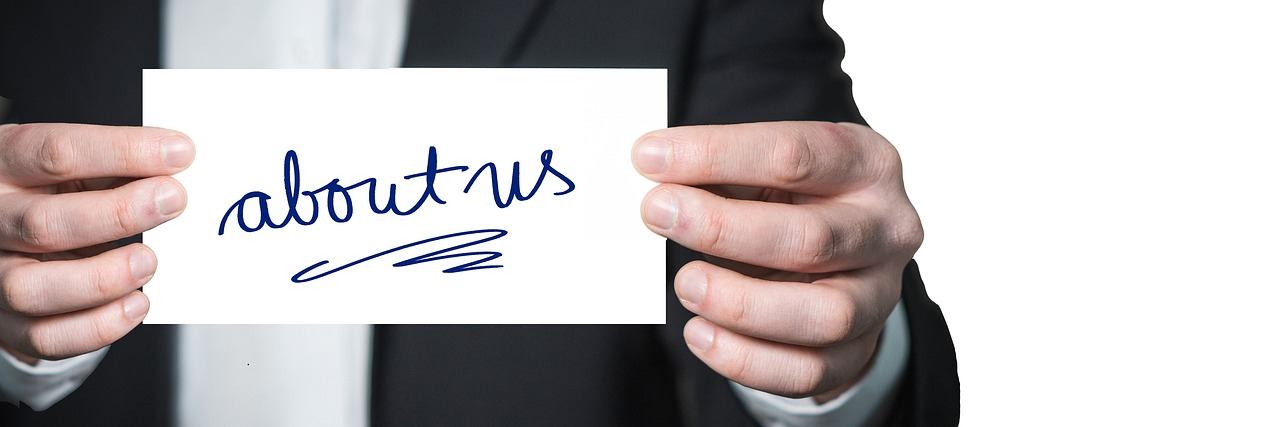
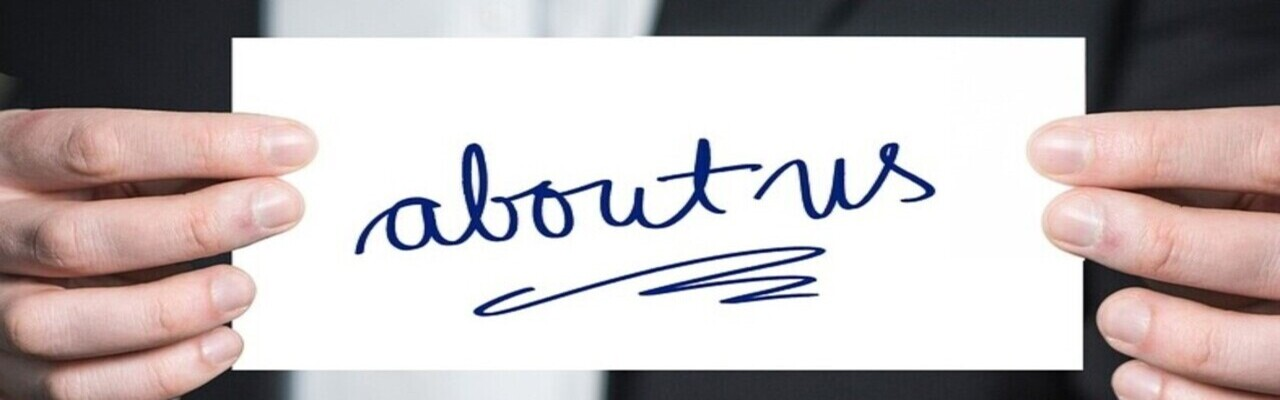
Redimensionamento das imagens do Help e About.

diff --git a/paginas/about.html b/paginas/about.html
@@ -17,7 +17,7 @@
                 <ul>
                     <li class="link">
                         <a href="../paginas/help.html"> <img src="../img/help.png "
-                        alt="Caixa de texto com uma interrogaçaõ dentro" width="3%"> </a> </li>
+                        alt="Caixa de texto com uma interrogação dentro" width="3%"> </a> </li>
  
                     <li class="link">
                         <a href="./about.html"> <img src="../img/about.png"
@@ -32,7 +32,7 @@
         <hr />
         <section class="conteudo-help">
             <figure>
-                <img src="../img/about_us.jpg" alt="Sobre" width="1000px">
+                <img src="../img/about_us.jpg" alt="Sobre" width="1200px">
                 <figcaption> Sobre nós </figcaption>
             </figure>
         </section>

diff --git a/paginas/help.html b/paginas/help.html
@@ -19,7 +19,7 @@
               <a href="../paginas/help.html">
                 <img
                   src="../img/help.png "
-                  alt="Caixa de texto com uma interrogaçaõ dentro"
+                  alt="Caixa de texto com uma interrogação dentro"
                   width="3%"
                 />
               </a>
@@ -50,7 +50,7 @@
       <hr />
       <section class="conteudo-help">
         <figure>
-          <img src="../img/ajuda.jpg" alt="Ajuda" alt="Sobre" width="500px" />
+          <img src="../img/ajuda.jpg" alt="Ajuda" alt="Sobre" width="1200px" />
           <figcaption>Ajude os necessitados</figcaption>
         </figure>
       </section>

diff --git a/index.html b/index.html
@@ -32,7 +32,7 @@
             </li>
             <li class="link">
               <a href="./paginas/about.html">
-                <img src="./img/about.png" alt="Letra i em um circulo." />
+                <img src="./img/about.png" alt="Letra i em um círculo." />
               </a>
             </li>
             <li class="link">
